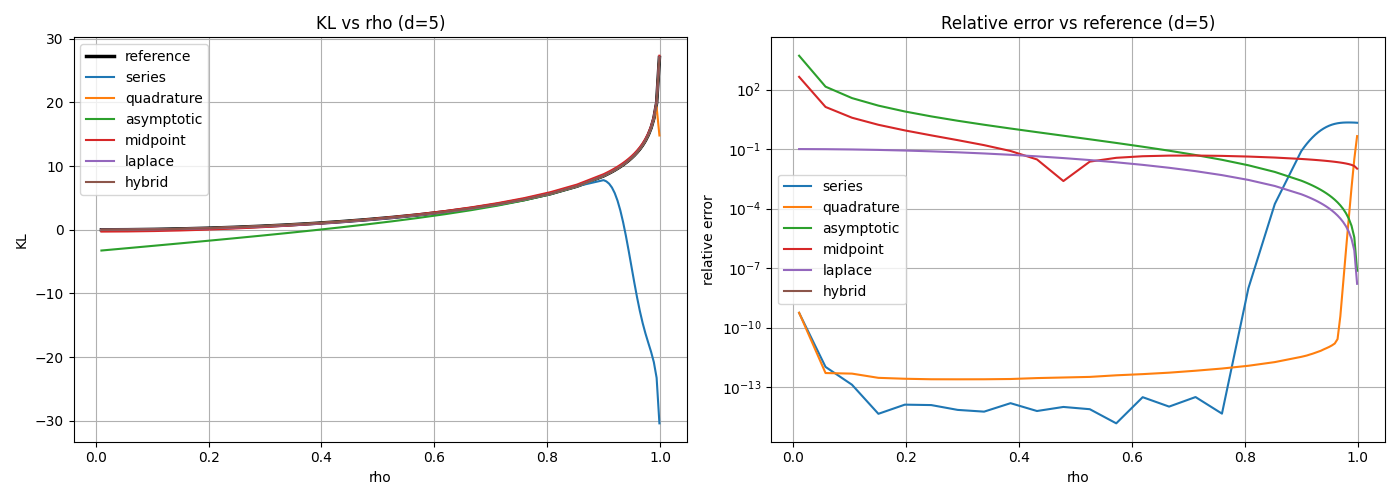
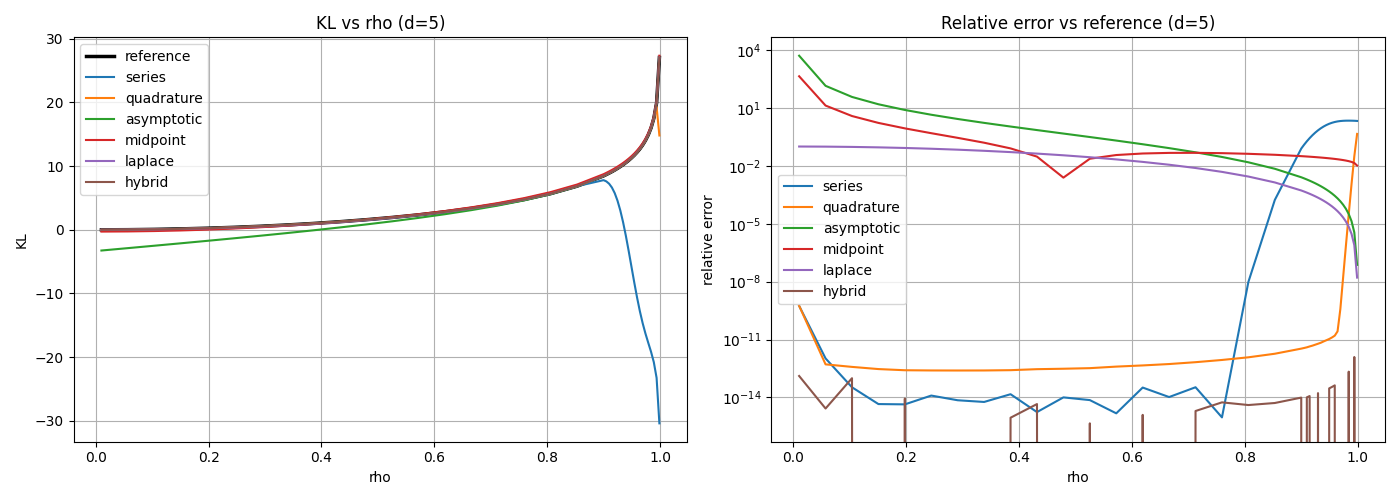
fixed the comparison

diff --git a/tests/test_kl_approximation_comparison.py b/tests/test_kl_approximation_comparison.py
@@ -5,6 +5,7 @@ import time
 
 import numpy as np
 import torch
+from scipy.special import hyp2f1
 
 import matplotlib
 
@@ -18,7 +19,6 @@ from src.kl import (
     kl_divergence_spcauchy2,
     kl_divergence_spcauchy_approx,
     kl_divergence_spcauchy_asympt,
-    kl_divergence_spcauchy_reference,
 )
 
 
@@ -26,6 +26,51 @@ def build_rho_grid(num_points):
     low_grid = np.linspace(0.01, 0.9, max(num_points // 2, 2))
     high_grid = np.linspace(0.9, 0.999, max(num_points - low_grid.size + 1, 2))
     return np.unique(np.concatenate([low_grid, high_grid]))
+
+
+def rho_to_z(rho_values):
+    rho_values = np.asarray(rho_values, dtype=float)
+    return 4.0 * rho_values / np.square(1.0 + rho_values)
+
+
+def stable_log_hyp2f1_for_h_derivative(z_value, dimension, fd_step):
+    c = dimension - 1.0
+    delta = (dimension - 1) / 2.0
+    log_one_minus_z = np.log1p(-z_value)
+
+    # Use Euler's transform so the hypergeometric factor stays near 1 when z -> 1.
+    with np.errstate(divide="ignore", invalid="ignore", over="ignore"):
+        lp_core = hyp2f1(-fd_step, delta, c, z_value)
+        lm_core = hyp2f1(fd_step, delta, c, z_value)
+        lp = (-delta - fd_step) * log_one_minus_z + np.log(lp_core)
+        lm = (-delta + fd_step) * log_one_minus_z + np.log(lm_core)
+
+    return lp, lm
+
+
+def h_true_scalar(z_value, dimension, fd_step=1e-5):
+    z_value = float(np.clip(z_value, 1e-12, 1 - 1e-10))
+
+    if dimension in {2, 3, 4, 5}:
+        rho_value = (1.0 - np.sqrt(1.0 - z_value)) / (1.0 + np.sqrt(1.0 - z_value))
+        rho_tensor = torch.tensor([[rho_value]], dtype=torch.float64)
+        h_value = kl_divergence_spcauchy_approx(rho_tensor, dimension, approximation="hybrid").item()
+        return h_value / (dimension - 1.0) + 0.5 * np.log1p(-z_value)
+
+    lp, lm = stable_log_hyp2f1_for_h_derivative(z_value, dimension, fd_step)
+
+    if not (np.isfinite(lp) and np.isfinite(lm)):
+        return np.nan
+
+    return (lp - lm) / (2.0 * fd_step) + np.log1p(-z_value)
+
+
+def kl_reference_from_h_approximation(rho_tensor, dimension):
+    rho_values = rho_tensor.detach().cpu().numpy().reshape(-1)
+    z_values = rho_to_z(rho_values)
+    h_values = np.asarray([h_true_scalar(z_value, dimension) for z_value in z_values], dtype=np.float64)
+    kl_values = (dimension - 1.0) * (h_values - 0.5 * np.log1p(-z_values))
+    return torch.tensor(kl_values, dtype=rho_tensor.dtype, device=rho_tensor.device)
 
 
 def timed_evaluation(fn, rho_tensor, device):
@@ -108,12 +153,7 @@ def run_kl_approximation_comparison(
 
     for dimension in dimensions:
         method_specs = {
-            "reference": lambda tensor: kl_divergence_spcauchy_reference(
-                tensor,
-                dimension,
-                k_terms=max(k_terms, 4000),
-                n_nodes=max(n_nodes, 2000),
-            ),
+            "reference": lambda tensor: kl_reference_from_h_approximation(tensor, dimension),
             "series": lambda tensor: kl_divergence_spcauchy(
                 tensor,
                 dimension,

diff --git a/tests/hybrid_exact_lowd5_laplace_from6_error_analysis.py b/tests/hybrid_exact_lowd5_laplace_from6_error_analysis.py
@@ -34,6 +34,21 @@ def z_to_rho(z_values):
     return (1.0 - sqrt_one_minus_z) / (1.0 + sqrt_one_minus_z)
 
 
+def stable_log_hyp2f1_for_h_derivative(z_value, dimension, fd_step):
+    c = dimension - 1.0
+    delta = (dimension - 1) / 2.0
+    log_one_minus_z = np.log1p(-z_value)
+
+    # Use Euler's transform so the hypergeometric factor stays near 1 when z -> 1.
+    with np.errstate(divide="ignore", invalid="ignore", over="ignore"):
+        lp_core = hyp2f1(-fd_step, delta, c, z_value)
+        lm_core = hyp2f1(fd_step, delta, c, z_value)
+        lp = (-delta - fd_step) * log_one_minus_z + np.log(lp_core)
+        lm = (-delta + fd_step) * log_one_minus_z + np.log(lm_core)
+
+    return lp, lm
+
+
 def h_true_scalar(z_value, dimension, h=1e-5):
     z_value = float(np.clip(z_value, 1e-12, 1 - 1e-10))
 
@@ -42,11 +57,7 @@ def h_true_scalar(z_value, dimension, h=1e-5):
         h_value = kl_divergence_spcauchy_approx(rho_tensor, dimension, approximation="hybrid").item()
         return h_value / (dimension - 1.0) + 0.5 * np.log1p(-z_value)
 
-    delta = (dimension - 1) / 2.0
-    c = dimension - 1.0
-    with np.errstate(divide="ignore", invalid="ignore"):
-        lp = np.log(hyp2f1(c + h, delta, c, z_value))
-        lm = np.log(hyp2f1(c - h, delta, c, z_value))
+    lp, lm = stable_log_hyp2f1_for_h_derivative(z_value, dimension, h)
     if not (np.isfinite(lp) and np.isfinite(lm)):
         return np.nan
     return (lp - lm) / (2.0 * h) + np.log1p(-z_value)
